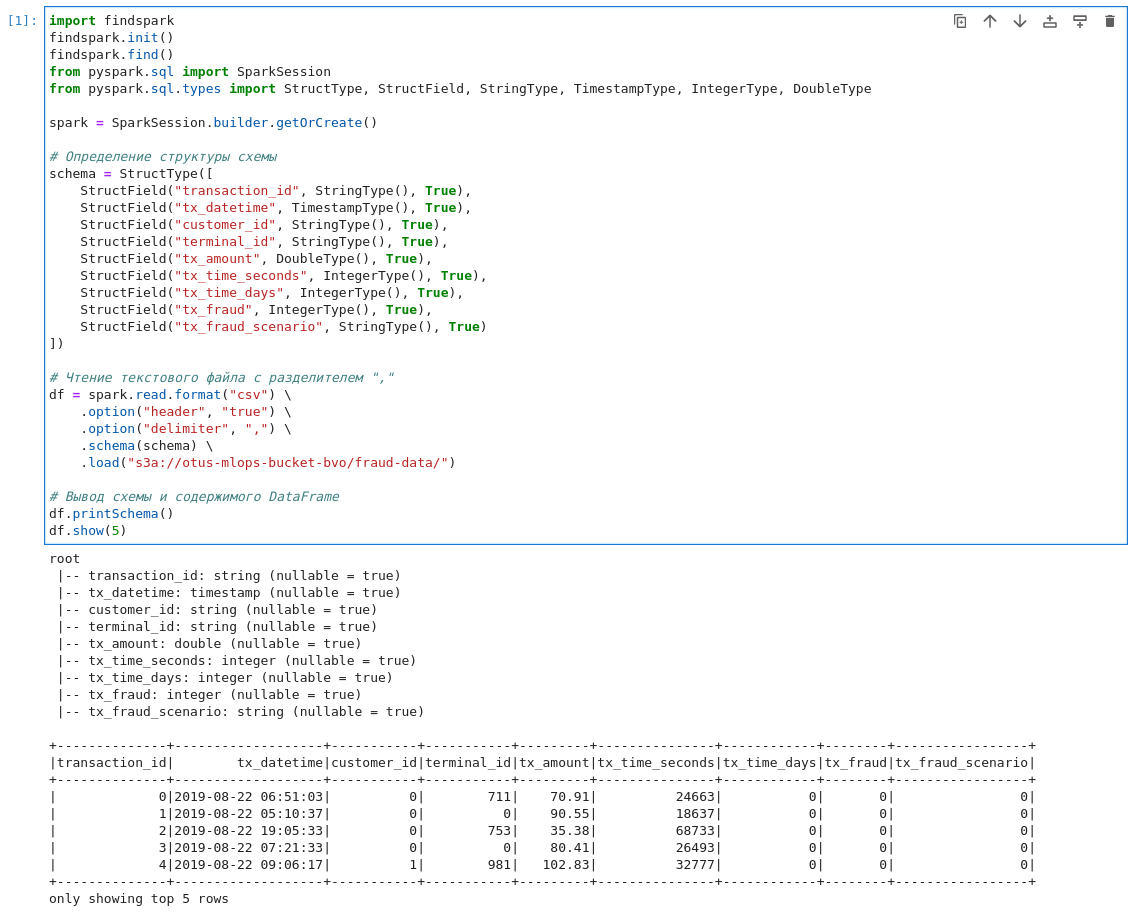
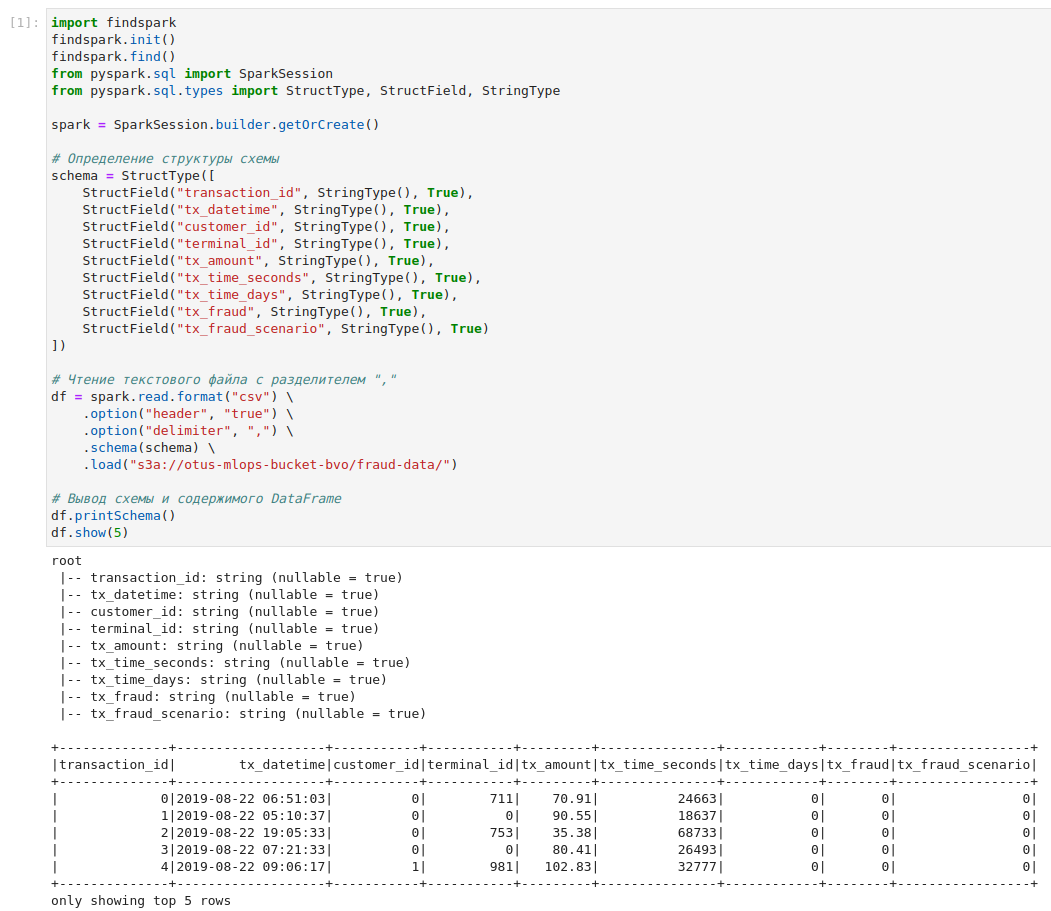
HW3. 2nd commit

diff --git a/src/antifraud_homework/pyspark_utils.py b/src/antifraud_homework/pyspark_utils.py
@@ -1,0 +1,74 @@
+"""
+Functions for data processing with pyspark
+"""
+import findspark
+
+findspark.init()
+findspark.find()
+from pyspark.sql import SparkSession
+from pyspark.sql.types import StructType, StructField, StringType, IntegerType
+from pyspark.sql.functions import date_format, expr, length, col
+
+
+def clean_data_with_pyspark(s3path_inp: str, s3path_out: str) -> int:
+    """
+    Basic data cleaning with pyspark
+    """
+    spark = None
+
+    try:
+        # Start SparkSession
+        spark = SparkSession.builder.getOrCreate()
+
+        # Define Schema with StringType
+        schema = StructType([
+            StructField("transaction_id", StringType(), True),
+            StructField("tx_datetime", StringType(), True),
+            StructField("customer_id", StringType(), True),
+            StructField("terminal_id", StringType(), True),
+            StructField("tx_amount", StringType(), True),
+            StructField("tx_time_seconds", StringType(), True),
+            StructField("tx_time_days", StringType(), True),
+            StructField("tx_fraud", StringType(), True),
+            StructField("tx_fraud_scenario", StringType(), True)
+        ])
+
+        # Read .csv from s3 storage
+        spark_df = (
+            spark.read.format("csv")
+            .option("header", "true")
+            .option("delimiter", ",")
+            .schema(schema)
+            .load(s3path_inp)
+        )
+
+        # Clean Data
+        # Drop Duplicates
+        spark_df = spark_df.dropDuplicates()
+        # Correct Midnight Error
+        spark_df = spark_df.withColumn("tx_datetime", date_format(
+            expr("if(substr(tx_datetime, 12) == '24:00:00', \
+            from_unixtime(unix_timestamp(substr(tx_datetime, 0, 11) || '00:00:00') + 86400), \
+            tx_datetime)"), "yyyy-MM-dd HH:mm:ss"))
+        # Correct Seconds
+        spark_df = spark_df.withColumn("tx_time_seconds", expr("unix_timestamp(tx_datetime) - unix_timestamp('2019-08-22 00:00:00')"))
+        # Correct Days after Midnight Updates
+        spark_df = spark_df.withColumn("tx_time_days", expr("tx_time_seconds / 86400").cast(IntegerType()))
+        # Drop Raws if customer_id is -999999
+        spark_df = spark_df.filter(~(col("customer_id") == -999999))
+        # Drop Raws if terminal_id is None, "Err" or length > 4
+        spark_df = spark_df.filter(~(col("terminal_id").isNull() | (col("terminal_id") == "Err") | (length(col("terminal_id")) > 4)))
+
+        # Save results with overwrite method
+        spark_df.write.parquet(s3path_out, mode="overwrite")
+        # logger.error(f"File {s3path_inp} is successfully processed and saved to {s3path_out}.")
+        return 0
+
+    except: #Exception as e:
+        # logger.error(f"Error message: {e}")
+        return 1
+
+    finally:
+        # Stop SparkSession
+        if spark:
+            spark.stop()

diff --git a/tests/test__clean_data_with_pyspark.py b/tests/test__clean_data_with_pyspark.py
@@ -1,0 +1,50 @@
+import pandas as pd
+from antifraud_homework.pyspark_utils import clean_data_with_pyspark
+
+
+def test_clean_data_with_pyspark_success():
+    
+    file_inp = './tests/temp/test__clean_data_with_pyspark.csv'
+    file_out = './tests/temp/test__clean_data_with_pyspark_processed'
+    
+    test_df_inp = pd.DataFrame([
+        ["0", "2019-08-22 00:00:00", "0", "0", "100.00", "0", "0", "0", "0"],
+        ["0", "2019-08-22 00:00:00", "0", "0", "100.00", "0", "0", "0", "0"],
+        ["1", "2019-08-22 23:59:59", "0", "0", "100.00", "86399", "0", "0", "0"],
+        ["2", "2019-08-22 24:00:00", "0", "0", "100.00", "86400", "0", "0", "0"],
+        ["3", "2019-08-23 00:00:00", "-999999", "0", "100.00", "86400", "1", "0", "0"],
+        ["4", "2019-08-23 00:00:00", "1", "Err", "100.00", "86400", "1", "0", "0"],
+        ["5", "2019-08-23 00:00:00", "2", None, "100.00", "86400", "1", "0", "0"],
+        ["6", "2019-08-23 00:00:00", "2", "22000", "100.00", "86400", "1", "0", "0"],
+        ["7", "2019-08-31 24:00:00", "3", "2", "100.00", "864000", "9", "0", "0"],
+        ["8", "2019-09-05 12:00:00", "4", "3", "100.00", "43200", "14", "0", "0"]], 
+        columns=[
+            'transaction_id', 'tx_datetime', 'customer_id', 'terminal_id',
+            'tx_amount', 'tx_time_seconds', 'tx_time_days', 'tx_fraud',
+            'tx_fraud_scenario']
+        )
+    
+    test_df_inp.to_csv(file_inp, sep=',', index=False)
+
+    status_code = clean_data_with_pyspark(file_inp, file_out)
+    
+    assert status_code == 0
+
+    test_df_out = pd.DataFrame([
+        ['0', '2019-08-22 00:00:00', '0', '0', '100.00', '0', '0', '0', '0'],
+        ['1', '2019-08-22 23:59:59', '0', '0', '100.00', '86399', '0', '0', '0'],
+        ['2', '2019-08-23 00:00:00', '0', '0', '100.00', '86400', '1', '0', '0'],
+        ['7', '2019-09-01 00:00:00', '3', '2', '100.00', '864000', '10', '0', '0'],
+        ['8', '2019-09-05 12:00:00', '4', '3', '100.00', '1252800', '14', '0', '0']], 
+        columns=[
+            'transaction_id', 'tx_datetime', 'customer_id', 'terminal_id',
+            'tx_amount', 'tx_time_seconds', 'tx_time_days', 'tx_fraud', 
+            'tx_fraud_scenario']
+    )
+
+    assert test_df_out.equals(
+        pd.read_parquet(file_out)
+        .sort_values(by=['transaction_id'])
+        .reset_index(drop=True)
+        .astype(str)
+    )

diff --git a/README.md b/README.md
@@ -87,11 +87,11 @@ a) Мастер-подкластер: класс хоста s3-c2-m8, разме
 ![HDFS](https://github.com/bogorodvo/otus_mlops_hw_project/blob/main/project_content/HW2_3.png)
 
 ## Биллинг
-Стоимость содержания созданного кластера 36.20 руб/час (36.2*24*365.25/12 ~ `26 444 руб/месяц`).
+Стоимость содержания созданного кластера 36.20 руб/час (36.2x24x365.25/12 ~ `26 444 руб/месяц`).
 
-Содерджание мастер ноды обходится в 5.72 руб/час (5.72*24*365.25/12 ~ `4 178 руб/месяц`).
+Содерджание мастер ноды обходится в 5.72 руб/час (5.72x24x365.25/12 ~ `4 178 руб/месяц`).
 
-Содержание стандартного S3 хранилилища обходится в 2.01*210 ~ `241 руб/месяц`, при условии что у нас около 120 ГБ данных.
+Содержание стандартного S3 хранилилища обходится в 2.01x210 ~ `241 руб/месяц`, при условии что у нас около 120 ГБ данных.
 В стандартном S3 хранилилище также не тарифицируется первые 10 000 / 100 000 операций за месяц.
 
 Исходящий/входяший трафик внутри VPC не тарифицируется.
@@ -152,7 +152,7 @@ a) Мастер-подкластер: класс хоста s3-c2-m8, разме
 
 ## Установка Jupyter Lab и доступ к данным
 
-На мастер-ноду скачиваем  дистрибутив `wget 'https://repo.anaconda.com/archive/Anaconda3-2023.09-0-Linux-x86_64.sh'` и устанавливаем. Запускаем Jupyter `jupyter notebook --no-browser --port=8888 --ip=*` и запускаем ссылку в браузере `http://publicip:8888/?token=xxxx`.
+На мастер-ноду скачиваем  дистрибутив `wget 'https://repo.anaconda.com/archive/Anaconda3-2023.09-0-Linux-x86_64.sh'` и устанавливаем. Запускаем Jupyter `jupyter notebook --no-browser --port=8888 --ip=*` и вставляем ссылку в браузер `http://publicip:8888/?token=xxxx`.
 
 Проверяем доступ к данным (пример в `notebook/HW3_InitialSparkReading.ipynb`).
 
